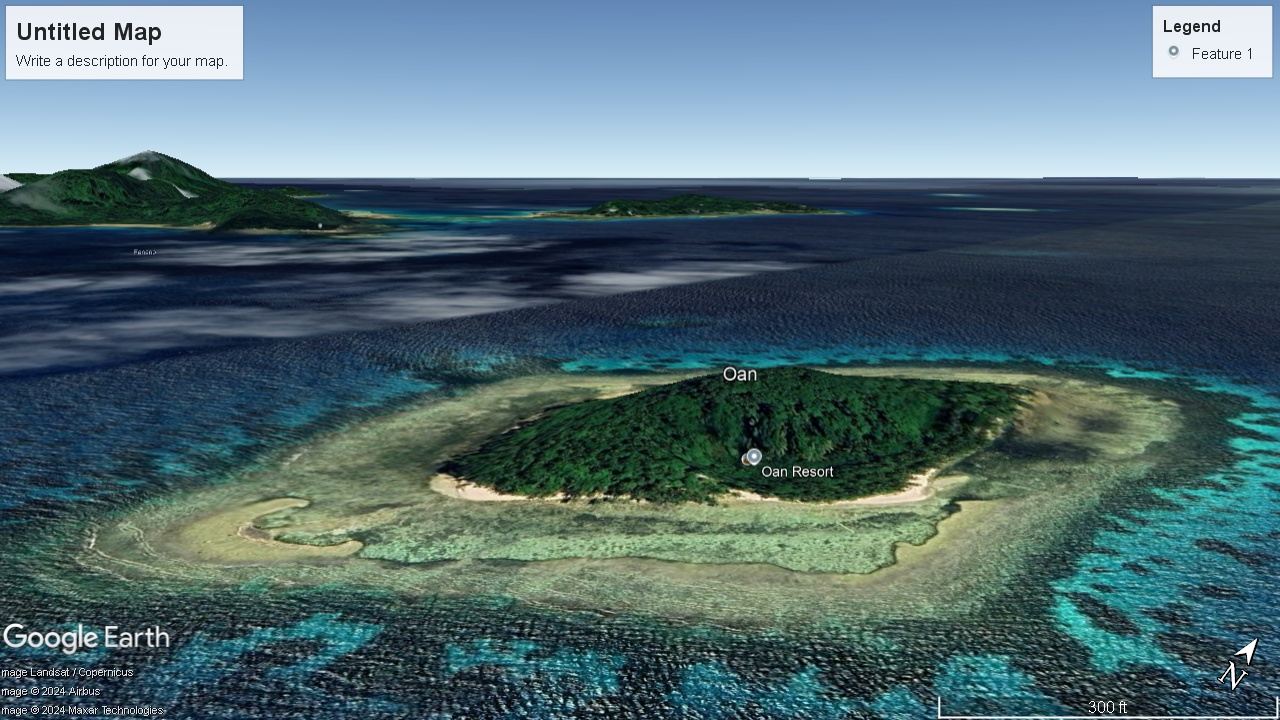
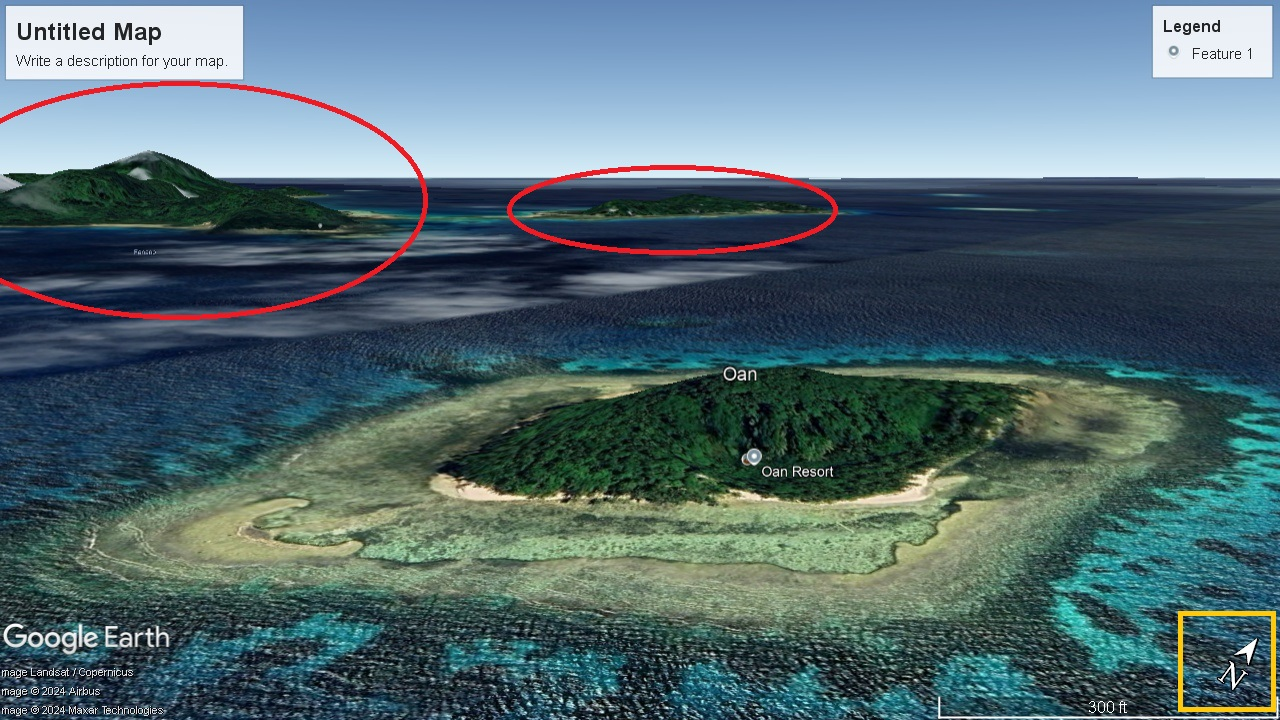
Commit the fifth challenge

diff --git a/Fifth Challenge (Far Island)/Readme.md b/Fifth Challenge (Far Island)/Readme.md
@@ -1,0 +1,31 @@
+[Challenge Link](https://gralhix.com/list-of-osint-exercises/osint-exercise-005/)
+
+#### Description:
+
+This is a photo of a resort located on an island.  
+a) What is the name of the resort?  
+b) What are the coordinates of the island?  
+c) In which cardinal direction was the camera facing when the photo was taken?
+
+![Source](Source.jpg)
+
+#### Solution:
+* Using google image search at first the result was:
+  ![Search-result](Search-result.jpg)
+The Result was a website for a resort called "Oan Resort" with the same photo. [website Link](https://oanresort.wixsite.com/chuuk)
+
+![Website](website.jpg)
+now we know the resort name **"Oan"** but let's get sure with google earth.
+![map](map.jpg)
+* Using google earth we will find that this the same island with the far small island and the mountain in the left, and using the compass we will know which direction does the photographer look at.
+**So results will be:**
+
+**Resort name**: OAN Resort
+**Resort website**: https://oanresort.wixsite.com/chuuk/about
+**Island name**: Oan Island 
+**Oan Location** : Wonip, Chuuk, Micronesia 
+**Island coordinates:** 
+1. **Lat:**   7°21'38.56"N
+2. **Long:** 151°45'23.23"E
+**Cardinal direction was**:   North West
+
